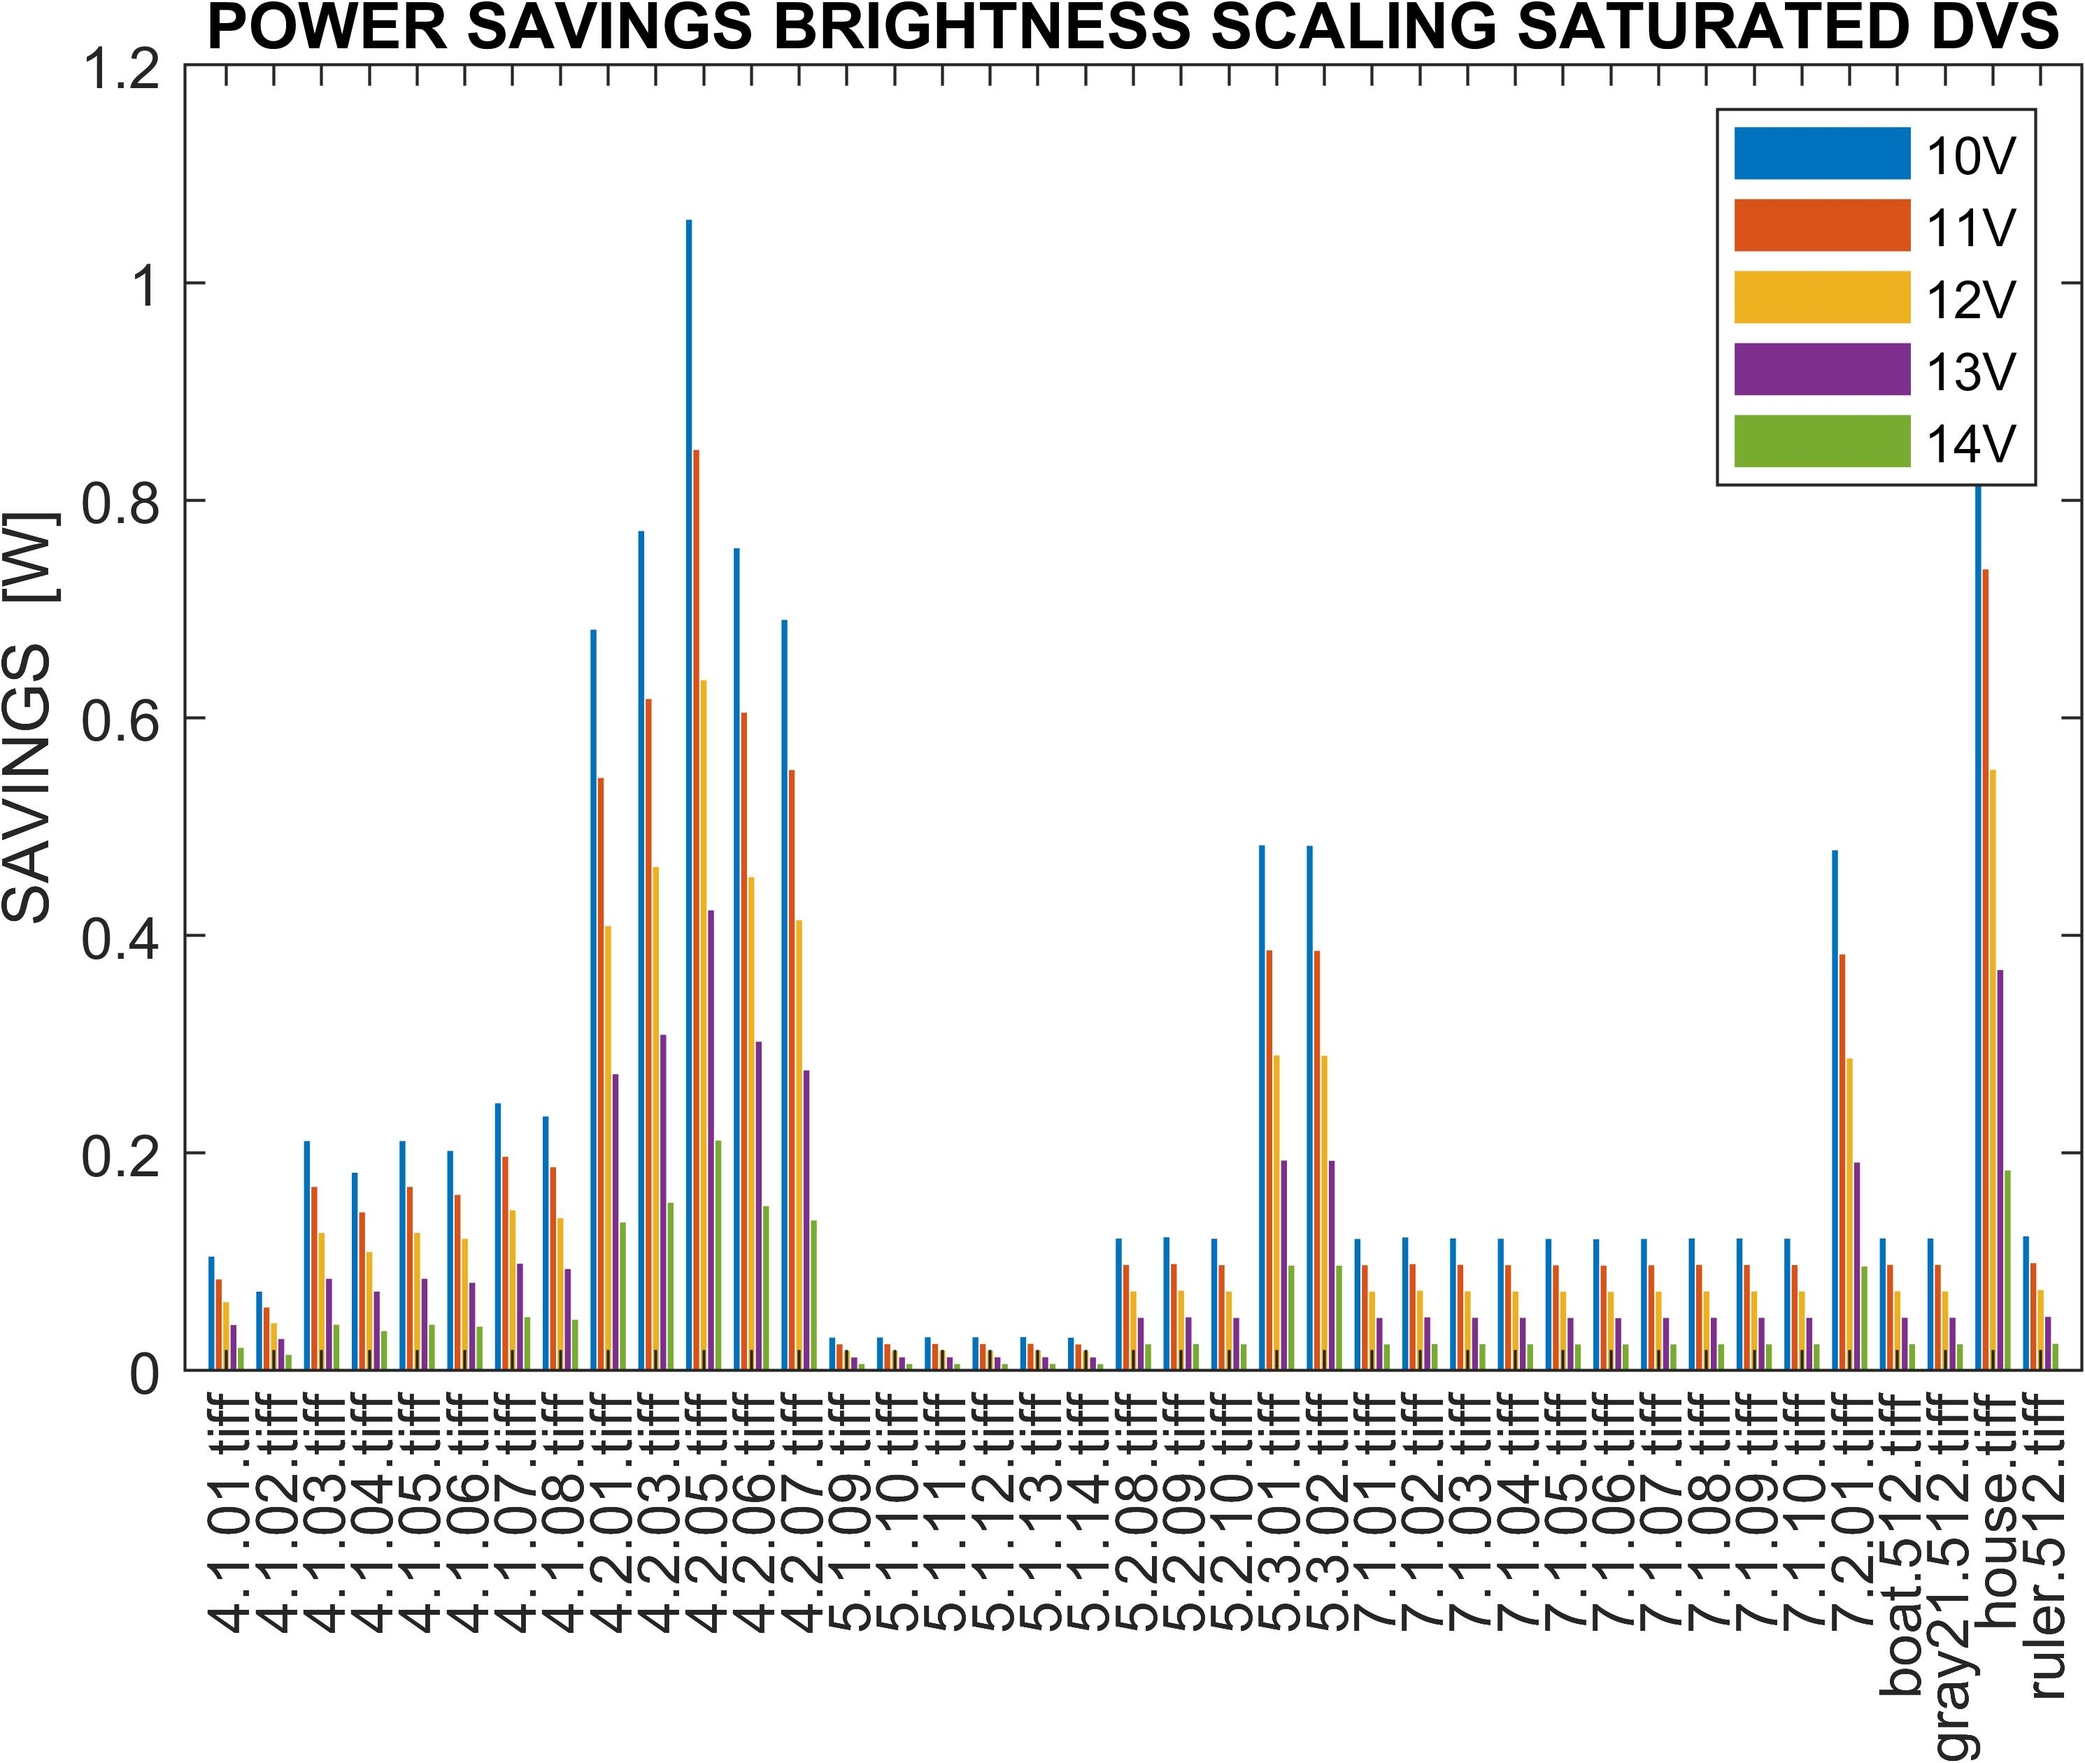
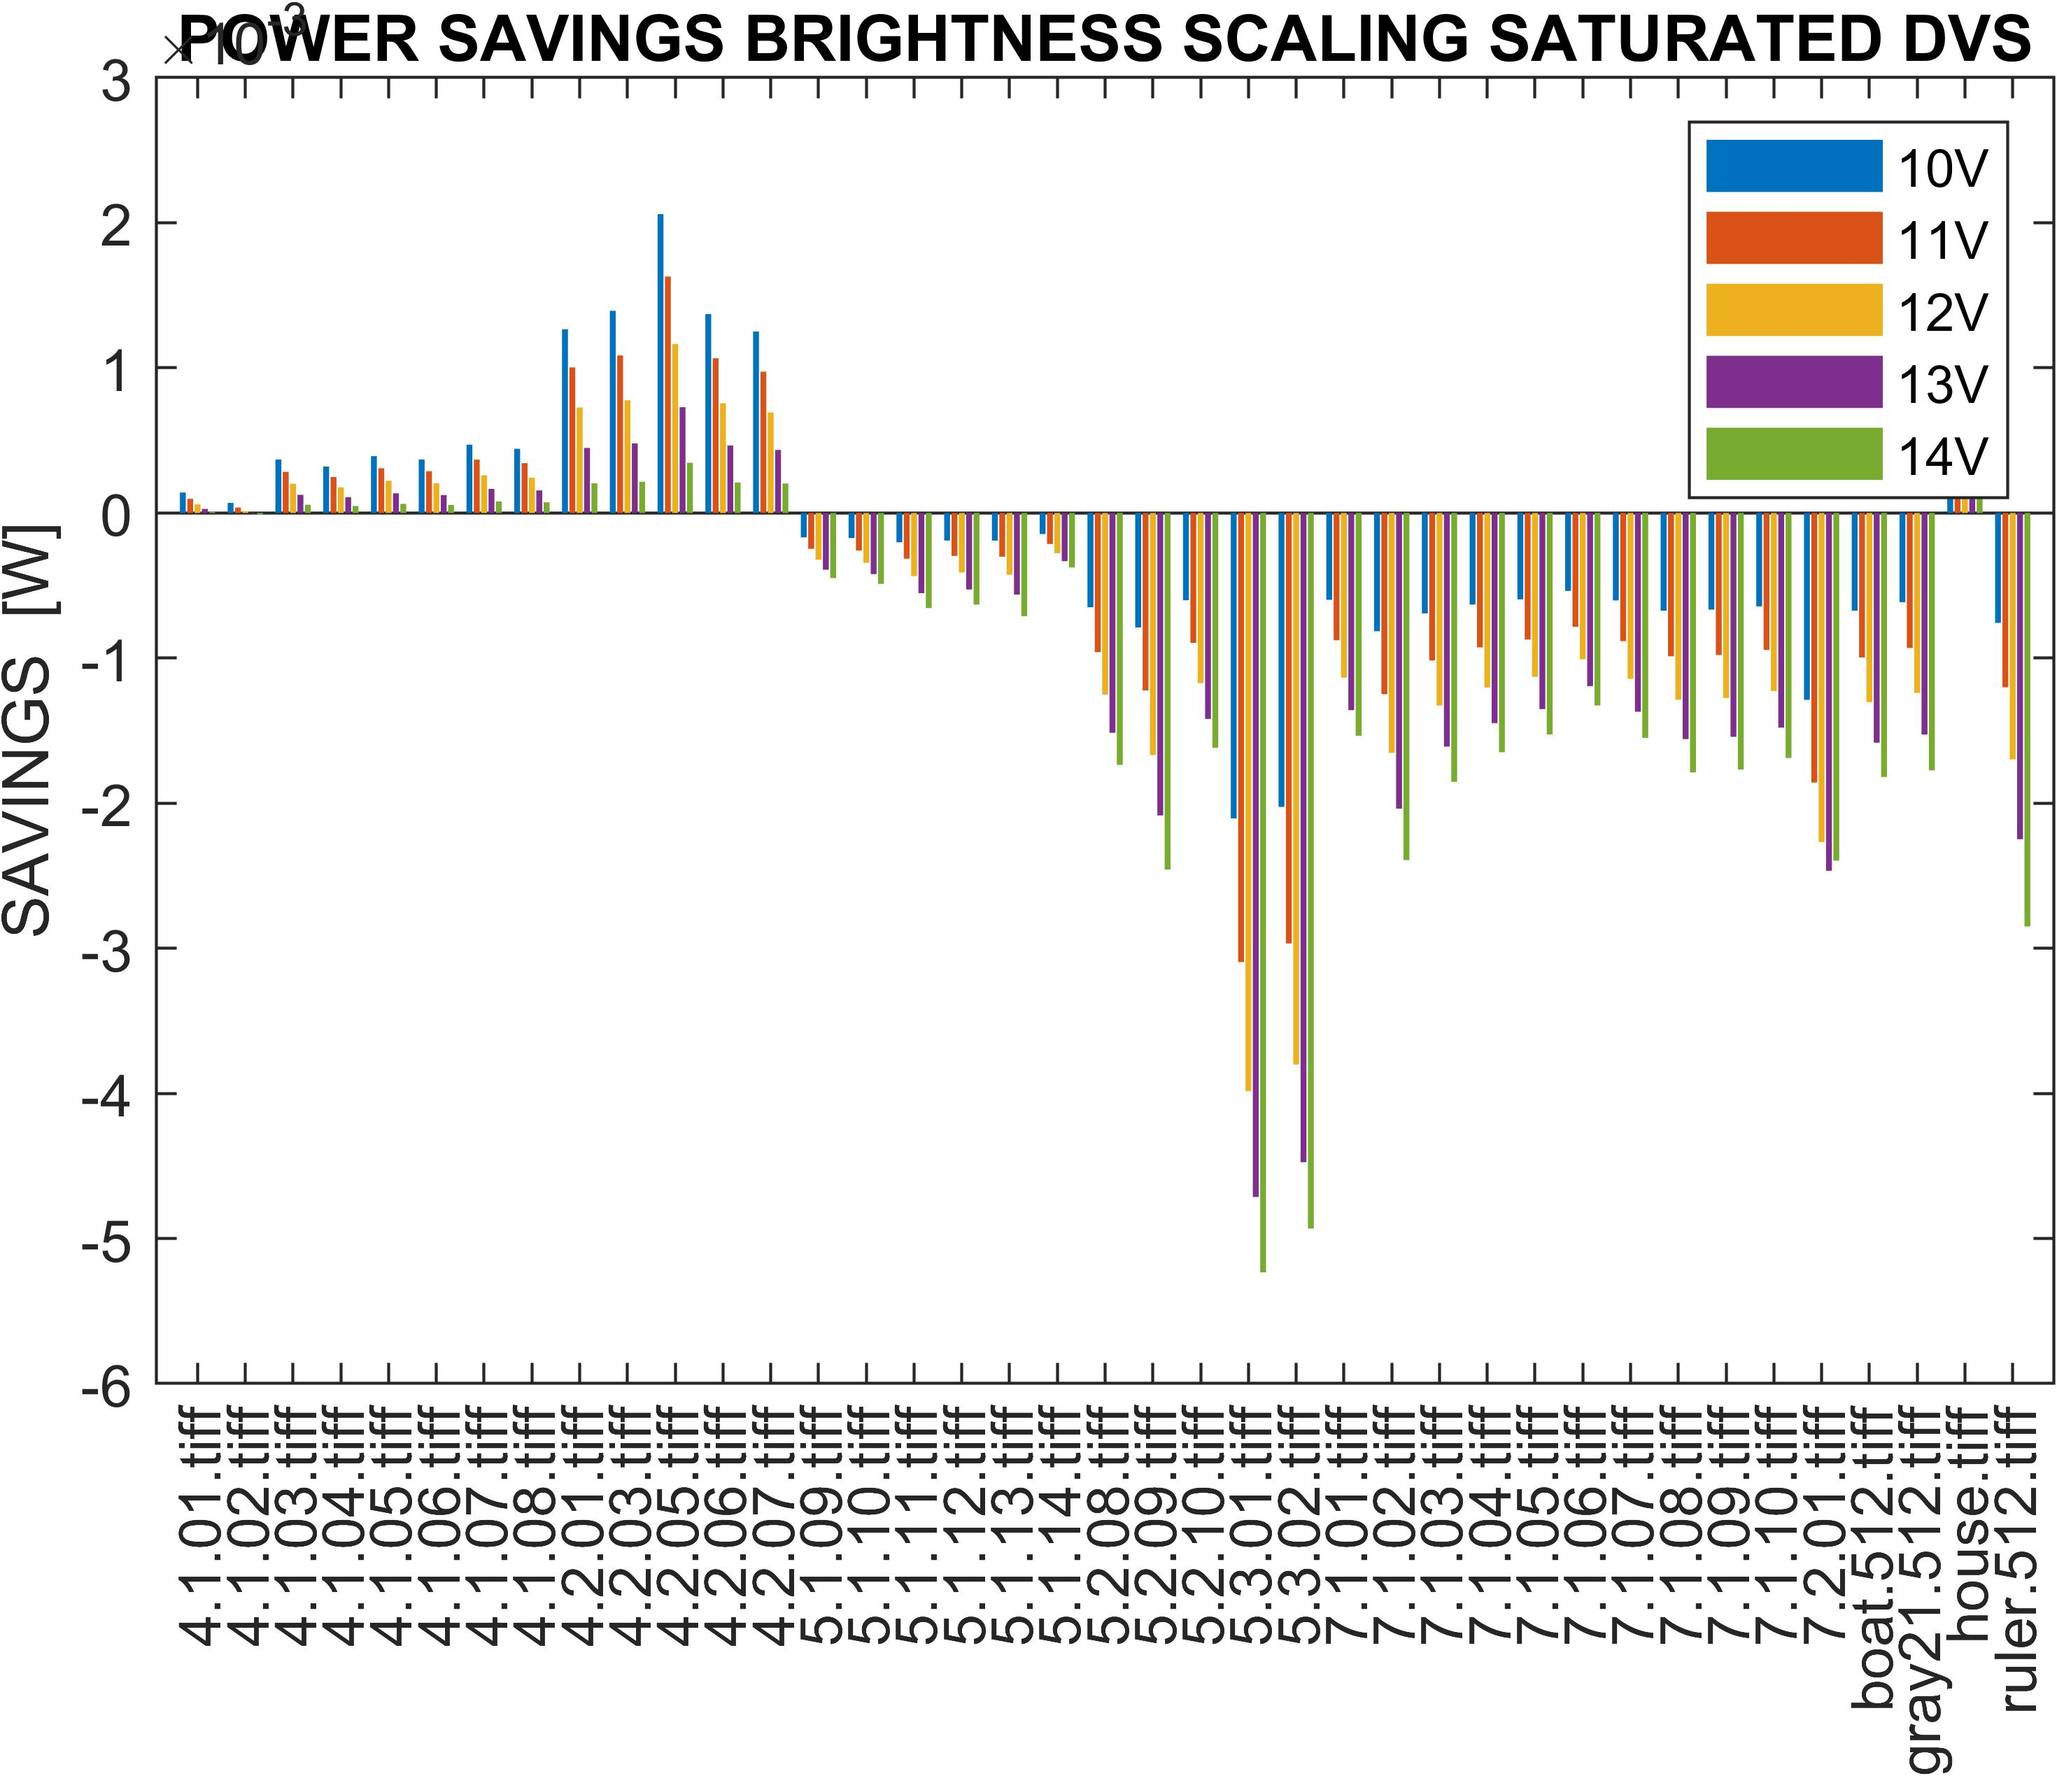
added graphs for power savings data set 1

Changed region(s): [[0.0, 0.0, 1.0, 1.0], [0.9905, 0.526, 1.0, 0.5569]]

diff --git a/lab2/day2_matlab_scripts/auto_transf_list1.m b/lab2/day2_matlab_scripts/auto_transf_list1.m
@@ -15,11 +15,29 @@ images_list1.name = strings(1, length(images_list1.dir));
 images_list1.original_power = zeros(1, length(images_list1.dir));   
 
 results = struct;
+%array for results
+results.savings_nocomp_saturated = zeros(39, 5);
+results.savings_nocomp_distorted = zeros(39, 5);
+results.distortion_nocomp_saturated = zeros(39,5);
+results.distortion_nocomp_distorted = zeros(39,5);
+
 results.savings_brightness_saturated = zeros(39, 5);
 results.savings_brightness_distorted = zeros(39, 5);
 results.distortion_brightness_saturated = zeros(39,5);
 results.distortion_brightness_distorted = zeros(39,5);
 
+results.savings_contrast_saturated = zeros(39, 5);
+results.savings_contrast_distorted = zeros(39, 5);
+results.distortion_contrast_saturated = zeros(39,5);
+results.distortion_contrast_distorted = zeros(39,5);
+
+results.savings_combined_saturated = zeros(39, 5);
+results.savings_combined_distorted = zeros(39, 5);
+results.distortion_combined_saturated = zeros(39,5);
+results.distortion_combined_distorted = zeros(39,5);
+
+
+index2 = 1;
 %loop for each image in the folder
     for k = 1 : length(images_list1.dir)
 
@@ -52,13 +70,17 @@ results.distortion_brightness_distorted = zeros(39,5);
             %evaluate savings
             images_list1.savings_DVS_only_saturated(k).transf(index) = double(images_list1.Ppanel_original(k) - images_list1.Ppanel_image_original_saturated(k).transf(index).power_panel);
             images_list1.savings_DVS_only_distorted(k).transf(index) = double(images_list1.Ppanel_original(k) - images_list1.Ppanel_image_original_distorted(k).transf(index).power_panel);
-            results.savings_brightness_saturated(k, index) = double(images_list1.Ppanel_original(k) - images_list1.Ppanel_image_original_saturated(k).transf(index).power_panel);
-            results.savings_brightness_distorted(k, index) = double(images_list1.Ppanel_original(k) - images_list1.Ppanel_image_original_distorted(k).transf(index).power_panel);
+            %
+            results.savings_nocomp_saturated(k, index) = double(images_list1.Ppanel_original(k) - images_list1.Ppanel_image_original_saturated(k).transf(index).power_panel);
+            results.savings_nocomp_distorted(k, index) = double(images_list1.Ppanel_original(k) - images_list1.Ppanel_image_original_distorted(k).transf(index).power_panel);
             %evaluate distortion
             images_list1.differnce_DVS_only_saturated(k).transf(index) = double(image_difference(image, temp_image_saturated));
             images_list1.distortion_DVS_only_saturated(k).transf(index) = double(distortion(images_list1.differnce_DVS_only_saturated(k).transf(index), image));
             images_list1.differnce_DVS_only_distorted(k).transf(index) = double(image_difference(image, temp_image_distorted));
             images_list1.distortion_DVS_only_distorted(k).transf(index) = double(distortion(images_list1.differnce_DVS_only_distorted(k).transf(index), image));
+            %
+            results.distortion_nocomp_saturated(k) = double(distortion(images_list1.differnce_DVS_only_saturated(k).transf(index), image));
+            results.distortion_nocomp_distorted(k) = double(distortion(images_list1.differnce_DVS_only_distorted(k).transf(index), image));
 
             %COMEPNSATIONS
             %apply Brightness compensation
@@ -73,12 +95,17 @@ results.distortion_brightness_distorted = zeros(39,5);
             %evaluate savings
             images_list1.savings_brightness_scaling_saturated(k).transf(index) = double(images_list1.Ppanel_original(k) - images_list1.Ppanel_brightness_scaling_saturated(k).transf(index).power_panel);
             images_list1.savings_brightness_scaling_distorted(k).transf(index) = double(images_list1.Ppanel_original(k) - images_list1.Ppanel_brightness_scaling_distorted(k).transf(index).power_panel);
+            %
+            results.savings_brightness_saturated(k, index) = double(images_list1.Ppanel_original(k) - images_list1.Ppanel_brightness_scaling_saturated(k).transf(index).power_panel);
+            results.savings_brightness_distorted(k, index) = double(images_list1.Ppanel_original(k) - images_list1.Ppanel_brightness_scaling_distorted(k).transf(index).power_panel);
             %evaluate distortion
             images_list1.differnce_brightness_scaling_saturated(k).transf(index) = double(image_difference(image, temp_image_saturated));
             images_list1.distortion_brightness_scaling_saturated(k).transf(index) = double(distortion(images_list1.differnce_brightness_scaling_saturated(k).transf(index), image));
             images_list1.differnce_brightness_scaling_distorted(k).transf(index) = double(image_difference(image, temp_image_distorted));
             images_list1.distortion_brightness_scaling_distorted(k).transf(index) = double(distortion(images_list1.differnce_brightness_scaling_distorted(k).transf(index), image));
-
+            %
+            results.distortion_brightness_saturated(k) = double(distortion(images_list1.differnce_brightness_scaling_saturated(k).transf(index), image));
+            results.distortion_brightness_distorted(k) = double(distortion(images_list1.differnce_brightness_scaling_distorted(k).transf(index), image));
 
             %apply contrast enhancement
             image_contrast_enhancement = contrast_enhancement(image,b);
@@ -92,12 +119,17 @@ results.distortion_brightness_distorted = zeros(39,5);
             %evaluate savings
             images_list1.savings_contrast_enhancement_saturated(k).transf(index) = double(images_list1.Ppanel_original(k) - images_list1.Ppanel_contrast_enhancement_saturated(k).transf(index).power_panel);
             images_list1.savings_contrast_enhancement_distorted(k).transf(index) = double(images_list1.Ppanel_original(k) - images_list1.Ppanel_contrast_enhancement_distorted(k).transf(index).power_panel);
+            %
+            results.savings_contrast_saturated(k) = double(images_list1.Ppanel_original(k) - images_list1.Ppanel_contrast_enhancement_saturated(k).transf(index).power_panel);
+            results.savings_contrast_distorted(k) = double(images_list1.Ppanel_original(k) - images_list1.Ppanel_contrast_enhancement_distorted(k).transf(index).power_panel);
             %evaluate distortion
             images_list1.differnce_contrast_enhancement_saturated(k).transf(index) = double(image_difference(image, temp_image_saturated));
             images_list1.distortion_contrast_enhancement_saturated(k).transf(index) = double(distortion(images_list1.differnce_contrast_enhancement_saturated(k).transf(index), image));
             images_list1.differnce_contrast_enhancement_distorted(k).transf(index) = double(image_difference(image, temp_image_distorted));
             images_list1.distortion_contrast_enhancement_distorted(k).transf(index) = double(distortion(images_list1.differnce_contrast_enhancement_distorted(k).transf(index), image));            
             %
+            results.distortion_contrast_saturated(k) = double(distortion(images_list1.differnce_contrast_enhancement_saturated(k).transf(index), image));
+            results.distortion_contrast_distorted(k) = double(distortion(images_list1.differnce_contrast_enhancement_distorted(k).transf(index), image));
 
             %apply combined compensation
             image_combined = brightnessContrast(image,b,Vdd,Vdd_mod);
@@ -111,18 +143,23 @@ results.distortion_brightness_distorted = zeros(39,5);
             %evaluate savings
             images_list1.savings_combined_saturated(k).transf(index) = double(images_list1.Ppanel_original(k) - images_list1.Ppanel_combined_saturated(k).transf(index).power_panel);
             images_list1.savings_combined_distorted(k).transf(index) = double(images_list1.Ppanel_original(k) - images_list1.Ppanel_combined_distorted(k).transf(index).power_panel);
+            results.savings_combined_saturated(k) = double(images_list1.Ppanel_original(k) - images_list1.Ppanel_combined_saturated(k).transf(index).power_panel);
+            results.savings_combined_distorted(k) = double(images_list1.Ppanel_original(k) - images_list1.Ppanel_combined_distorted(k).transf(index).power_panel);
             %evaluate distortion
             images_list1.differnce_combined_saturated(k).transf(index) = double(image_difference(image, temp_image_saturated));
             images_list1.distortion_combined_saturated(k).transf(index) = double(distortion(images_list1.differnce_combined_saturated(k).transf(index), image));
             images_list1.differnce_combined_distorted(k).transf(index) = double(image_difference(image, temp_image_distorted));
-            images_list1.distortion_combined_distorted(k).transf(index) = double(distortion(images_list1.differnce_combined_distorted(k).transf(index), image)); 
+            images_list1.distortion_combined_distorted(k).transf(index) = double(distortion(images_list1.differnce_combined_distorted(k).transf(index), image));
+            %
+            results.distortion_combined_saturated(k) = double(distortion(images_list1.differnce_combined_saturated(k).transf(index), image));
+            results.distortion_combined_distorted(k) = double(distortion(images_list1.differnce_combined_distorted(k).transf(index), image));
      
             index = index + 1;
             
             %Vdd_mod
 
         end
-
+        index2 = index2 + 1
     end
     results_struct = results;
     %return the struct

diff --git a/lab2/day2_matlab_scripts/day2.m b/lab2/day2_matlab_scripts/day2.m
@@ -11,7 +11,7 @@ name1 = "misc";
 %name3 = "screenshots";
 
 images_list1 = struct;
-result_struct = struct;
+result_struct1 = struct;
 %images_list2 = struct;
 %images_list3 = struct;
 
@@ -22,12 +22,25 @@ images_list1.dir= dir(fullfile("../misc/*.tiff")); %39 images
 
 
 %chiamo script auto
-[images_list1, result_struct] = auto_transf_list1(images_list1);
+[images_list1, result_struct1] = auto_transf_list1(images_list1);
 %images_list2 = auto_transf_list2(images_list2);
 %images_list3 = auto_transf_list3(images_list3);
 
 %%
-%produce graphs
-bar_brightness_scaling(images_list1,result_struct, name1);
+%produce graphs for savings
+bar_graph_savings(images_list1, result_struct1.savings_nocomp_saturated, name1);
+
+%%
+bar_graph_savings(images_list1,result_struct1.savings_brightness_saturated, name1);
+
+%%
+bar_graph_savings(images_list1, result_struct1.savings_contrast_saturated, name1);
+
+%%
+bar_graph_savings(images_list1, result_struct1.savings_combined_saturated, name1);
+
+%%
+graphs for distortion
+
 
 

diff --git a/lab2/day2_matlab_scripts/bar_graph_savings.m b/lab2/day2_matlab_scripts/bar_graph_savings.m
@@ -1,0 +1,27 @@
+function bar_graph_savings(images_list,result_struct, name_list)
+
+    
+    folder = "../figures_day2/";
+
+    x_name = strings(1, length(images_list.dir));
+
+    x_name = categorical(images_list.name);
+    x_name = reordercats(x_name);
+    
+    result_struct = result_struct / 1000;
+    result_struct = result_struct / 1000; %they are the  same
+      
+    fig_bar5 = figure;
+    
+    fig_bar5 = bar(x_name, result_struct);
+    l = cell(1,5);
+    l{1}='10V'; l{2}='11V'; l{3}='12V'; l{4}='13V'; l{5}='14V';
+    legend(fig_bar5,l);
+    ylabel('SAVINGS  [W]');
+    title('POWER SAVINGS COMBINED SATURATED DVS');
+    %save image
+    ax = gca;
+    saving_path = strcat(folder, 'power_savings_combined_', name_list, '.jpg');
+    exportgraphics(ax, saving_path, 'resolution',600); %remember to change name to specify the list
+
+end
